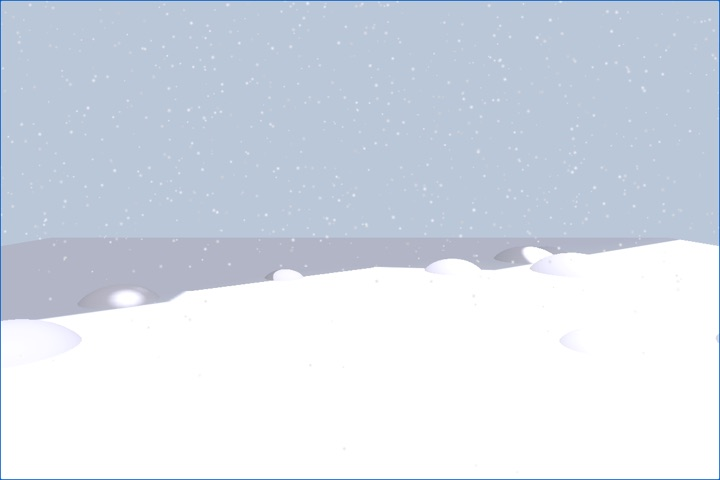
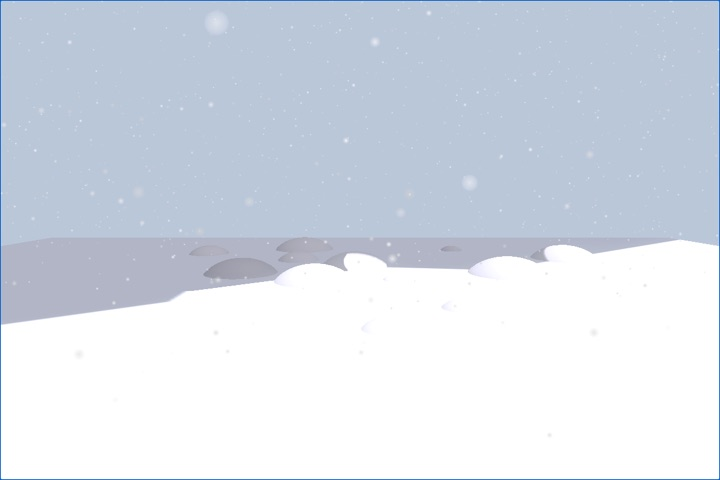
feat: perspective flake sizing + near-blur for Snow
Give snow depth cues:
- snow.vert: scale gl_PointSize by sizeScale / gl_Position.w so near flakes
  grow and far flakes shrink with perspective (clamped by maxSize).
- snow.frag: near flakes go out of focus — softer falloff + lower alpha
  (bokeh-like), ramped over focusDist/focusRange via the depth varying.
- Snow + SnowShader: new sizeScale/maxSize/focusDist/focusRange options
  (sensible defaults). Refresh the example thumbnail.

diff --git a/src/js/effect/snow.js b/src/js/effect/snow.js
@@ -28,8 +28,13 @@ export class Snow extends ParticleObject {
 			wind: [0.6, 0.2],   // gentle horizontal drift [x, z] in units per second
 			swayAmp: 0.5,       // horizontal flutter amplitude (world units)
 			swayFreq: 1.0,      // flutter speed
-			sizeMin: 3,         // flake size in pixels (small)
-			sizeMax: 8,         // flake size in pixels (large)
+			sizeMin: 3,         // base flake size in pixels at the reference depth
+			sizeMax: 8,         // base flake size in pixels at the reference depth
+			sizeScale: 20,      // reference depth: flakes here keep their base px size;
+			                    // nearer flakes grow, farther flakes shrink (perspective)
+			maxSize: 64,        // clamp so very near flakes don't explode
+			focusDist: 12,      // flakes closer than this start to blur (depth of field)
+			focusRange: 10,     // distance over which the near blur ramps in
 			color: [1.0, 1.0, 1.0],
 			opacity: 0.9,
 			followTarget: null, // optional object/camera; volume tracks its x/z
@@ -38,6 +43,11 @@ export class Snow extends ParticleObject {
 		const n = this.count = opt.count;
 
 		this.snowOpacity = opt.opacity;
+		// read by SnowShader for perspective sizing + near blur
+		this.sizeScale = opt.sizeScale;
+		this.maxSize = opt.maxSize;
+		this.focusDist = opt.focusDist;
+		this.focusRange = opt.focusRange;
 		this.shader = { name: "snow" };
 		this.mat.color = opt.color;
 		this.castShadow = false;   // flakes must not cast shadows (see Rain)

diff --git a/src/js/shader/snow.js b/src/js/shader/snow.js
@@ -19,6 +19,12 @@ export class SnowShader extends Shader {
 		this.colorUniform = this.bindUniform("color", "vec3");
 		this.opacityUniform = this.bindUniform("opacity", "float");
 
+		// perspective size + near-blur (depth of field) controls
+		this.sizeScaleUniform = this.bindUniform("sizeScale", "float");
+		this.maxSizeUniform = this.bindUniform("maxSize", "float");
+		this.focusDistUniform = this.bindUniform("focusDist", "float");
+		this.focusRangeUniform = this.bindUniform("focusRange", "float");
+
 		this.defaultColor = [1.0, 1.0, 1.0];
 	}
 
@@ -41,6 +47,11 @@ export class SnowShader extends Shader {
 		this.colorUniform.set(color);
 
 		this.opacityUniform.set(typeof obj.snowOpacity === "number" ? obj.snowOpacity : 0.9);
+
+		this.sizeScaleUniform.set(typeof obj.sizeScale === "number" ? obj.sizeScale : 20);
+		this.maxSizeUniform.set(typeof obj.maxSize === "number" ? obj.maxSize : 64);
+		this.focusDistUniform.set(typeof obj.focusDist === "number" ? obj.focusDist : 12);
+		this.focusRangeUniform.set(typeof obj.focusRange === "number" ? obj.focusRange : 10);
 
 		// alpha blend; depth test on (geometry occludes flakes) but no depth
 		// write so flakes don't fight each other
